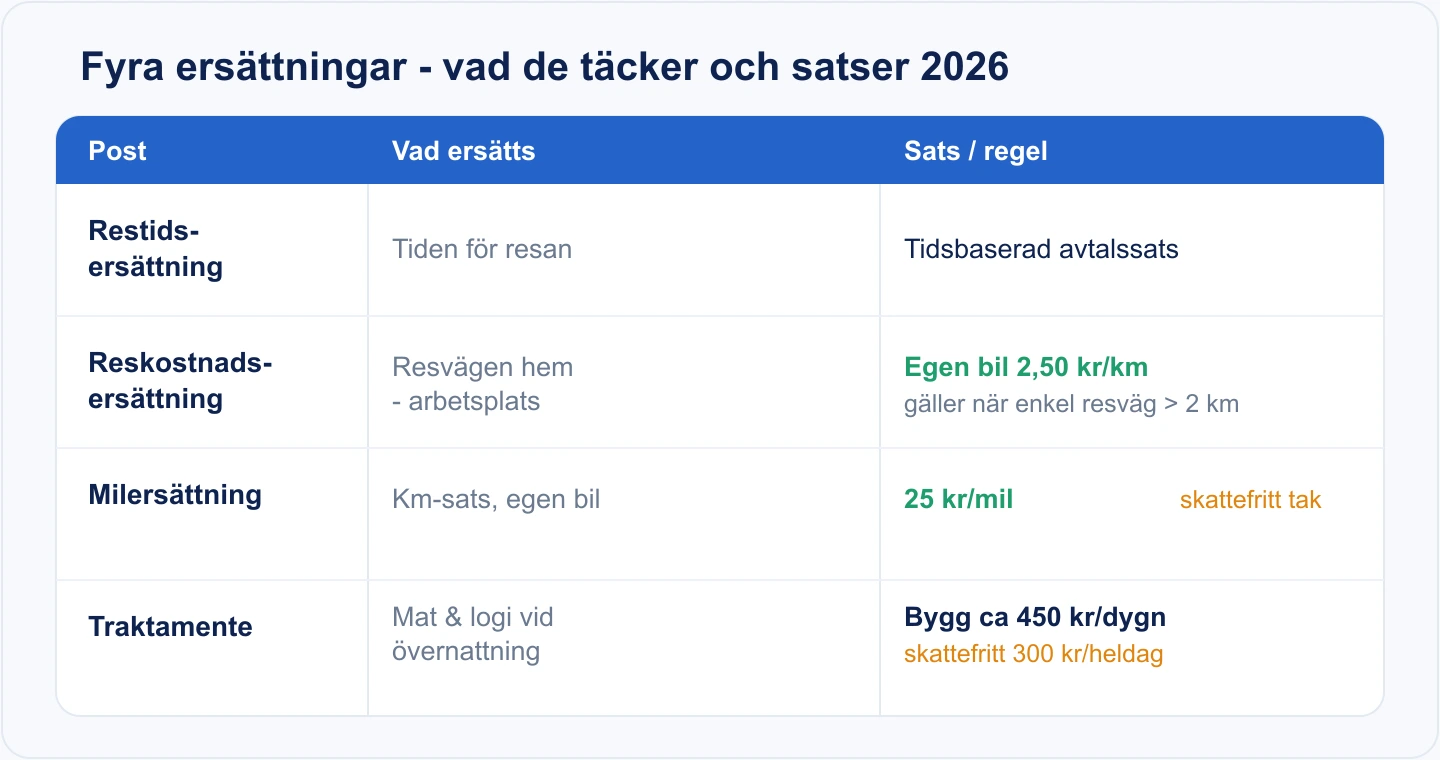
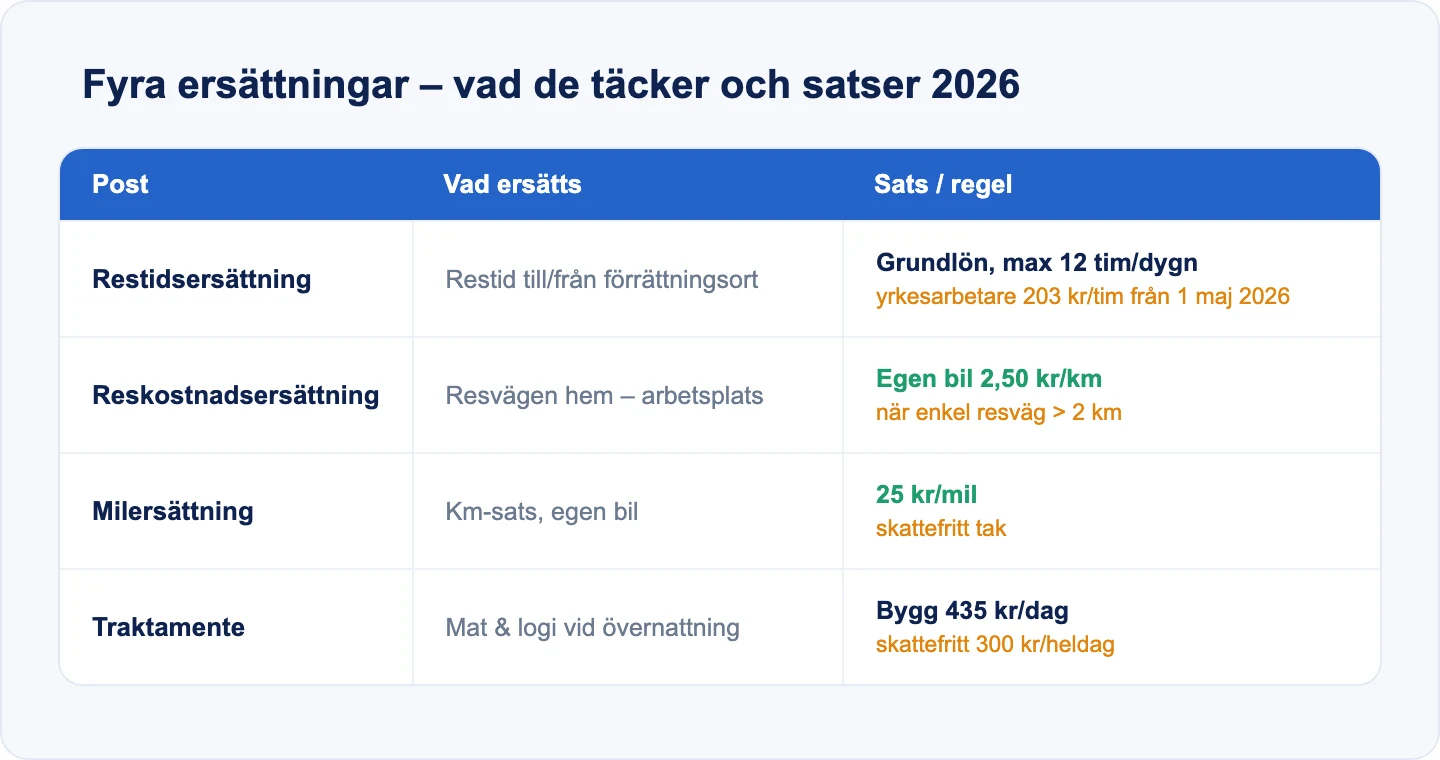
content: direct answers under the H1 for 12 articles + fact fixes
Quick answers (verified, with primary source): OB/övertid, AB-U, restid,
trappa, ackord, semesterlön, AB 04 vs ABT 06, reglar, förseningsvite,
hindersanmälan, moms lätt lastbil, Boverket.
Fixes: OB hours (OB1 05–06, OB2 18–22), traktamente 435 kr, restid rate,
semesterersättning monthly paid, ackord 203 kr/tim, trappa BBR claim,
Boverket title/state; OB + restid diagrams redrawn.

Claude-Session: https://claude.ai/code/session_01DyJMUJieBMYXjv47qoJ3xq

diff --git a/src/content/articles/regelverk.ts b/src/content/articles/regelverk.ts
@@ -500,7 +500,7 @@ const A_BOVERKETS_NYA_BYGGREGLER_2026_KONTROLLPLAN_HTML = `
 <li><strong>Inkom 1 juli 2025–30 juni 2026:</strong> byggherren väljer gammalt eller nytt – men inte en blandning.</li>
 <li><strong>Inkom efter 30 juni 2026:</strong> enbart Boverkets nya bygg- och konstruktionsregler gäller.</li>
 </ul>
-<p>Pågående projekt som startats under övergångsperioden enligt äldre regler kan omfattas av övergångsbestämmelser. Den exakta lydelsen bör du dubbelkolla mot Boverkets övergångsbestämmelser för just ditt ärende. En separat tidpunkt som rapporterats är att energikraven flyttas ut ur BBR till en egen energiregel, uppgivet omkring 1 oktober 2026 – det datumet är ännu obekräftat och bör verifieras mot Boverket.</p>
+<p>Pågående projekt som startats under övergångsperioden enligt äldre regler kan omfattas av övergångsbestämmelser. Den exakta lydelsen bör du dubbelkolla mot Boverkets övergångsbestämmelser för just ditt ärende. Energikraven har flyttats ut ur BBR till en egen författning (BFS 2026:9), och den 1 oktober 2026 upphävdes BBR helt. Under en begränsad tid får äldre energiregler i BBR 31 fortfarande tillämpas under vissa förutsättningar.</p>
 
 <h2>Myten om en ny kontrollplan – så ligger det till</h2>
 <p>En vanlig missuppfattning är att den nya regelreformen tvingar fram en helt ny sorts kontrollplan. Det stämmer inte. Kontrollplan och egenkontroll regleras av plan- och bygglagen (PBL, 10 kap.), inte av BBR eller byggreglerna. Själva reformen ändrar alltså inte de formella PBL-kraven på kontrollplanen.</p>
@@ -511,13 +511,13 @@ const A_BOVERKETS_NYA_BYGGREGLER_2026_KONTROLLPLAN_HTML = `
 <p>Konkret betyder det att varje kontrollpunkt bör kopplas till tre saker: vilket funktionskrav den svarar mot, vilken metod eller lösning du valt, och vilket underlag som styrker att kravet är uppfyllt (mätning, provning, produktdokumentation eller motsvarande). Kopplingen mellan egenkontroll, kontrollplan och startbesked blir viktigare – kontrollansvarig ska kunna följa hur du kommit fram till att ett krav är uppfyllt, inte bara att någon skrivit sina initialer i en ruta.</p>
 <p>Rollfördelningen är densamma men skärps i praktiken: byggherren äger ansvaret, KA granskar och följer kontrollplanen, och du som entreprenör levererar verifieringen. Ju svagare din dokumentation är, desto mer sårbar blir hela kedjan vid slutbesked.</p>
 
-<h2>Checklista: förbered dig innan 30 juni 2026</h2>
+<h2>Checklista: så ställer du om rutinerna</h2>
 <ul>
-<li><strong>Bestäm regelval per projekt.</strong> Avgör tidigt om projektet ska följa gamla eller nya reglerna, och notera datumet då ansökan/anmälan inkom.</li>
+<li><strong>Notera regelverket per projekt.</strong> Projekt där ansökan/anmälan inkom under övergångsperioden kan följa gamla regler – skriv in vilket regelverk som gäller och datumet då ansökan/anmälan inkom.</li>
 <li><strong>Uppdatera egenkontrollmallarna mot funktionskraven.</strong> Byt ut avbockningar mot punkter som beskriver vald lösning och verifiering.</li>
 <li><strong>Dokumentera verifieringsmetoden.</strong> Bestäm i förväg hur varje funktionskrav ska styrkas – mätning, provning eller produktunderlag.</li>
 <li><strong>Stäm av med kontrollansvarig.</strong> Säkerställ att kontrollplan och egenkontroll hänger ihop mot startbesked.</li>
-<li><strong>Bevaka energiregeln.</strong> Håll koll på den separata energiregelns ikraftträdande och kontrollera BFS-numren mot Boverkets författningssamling.</li>
+<li><strong>Kolla energireglerna.</strong> Energikraven står nu i BFS 2026:9 – kontrollera vilken version som gäller för ditt ärende.</li>
 <li><strong>Spara underlagen under hela ansvarstiden.</strong> Verifieringsdokumentationen är ditt skydd om ett projekt ifrågasätts i efterhand – för arbete på byggnader kan fel enligt konsumenttjänstlagen reklameras i upp till tio år, och entreprenadavtalens ansvarstid enligt AB 04/ABT 06 är normalt tio år.</li>
 </ul>
 
@@ -525,8 +525,8 @@ const A_BOVERKETS_NYA_BYGGREGLER_2026_KONTROLLPLAN_HTML = `
 <p>ByggExp hjälper dig att strukturera egenkontrollen så att den håller för det funktionsbaserade regelverket. I stället för lösa pappersblanketter samlar du kontrollpunkter, valda lösningar och verifieringsunderlag på ett ställe – med foton och noteringar kopplade till rätt moment. Det gör det enklare att visa <em>hur</em> ett krav uppfyllts och att ta fram dokumentationen när kontrollansvarig eller byggnadsnämnden frågar. ByggExp ersätter inte kontrollansvarig eller kontrollplanen enligt PBL, och tar inte över byggherrens ansvar – men det gör det betydligt lättare att hålla ordning på underlaget och att spara det under den tid det kan behövas, till exempel under den tioåriga reklamations- och ansvarstiden.</p>
 
 <h2>Vanliga frågor</h2>
-<h3>Måste jag använda de nya reglerna redan nu?</h3>
-<p>Nej. Under övergångsperioden 1 juli 2025–30 juni 2026 får byggherren välja gamla eller nya reglerna, så länge du inte blandar dem i samma projekt. För ärenden där ansökan eller anmälan inkommer efter 30 juni 2026 gäller enbart de nya reglerna.</p>
+<h3>Måste jag använda de nya reglerna nu?</h3>
+<p>Ja, för nya ärenden. Övergångsperioden 1 juli 2025–30 juni 2026, då byggherren fick välja gamla eller nya regler (utan att blanda), är slut. Valde du äldre regler och fick lov före 1 juli 2026 gäller de äldre reglerna även vid startbeskedet.</p>
 <h3>Vad händer med pågående bygglov?</h3>
 <p>Vilket regelverk som gäller styrs i praktiken av datumet då ansökan eller anmälan inkom till byggnadsnämnden. Projekt som startats under övergångsperioden enligt äldre regler kan omfattas av övergångsbestämmelser – kontrollera lydelsen för ditt specifika ärende mot Boverket.</p>
 <h3>Ändras kontrollplanen av de nya byggreglerna?</h3>
@@ -534,7 +534,7 @@ const A_BOVERKETS_NYA_BYGGREGLER_2026_KONTROLLPLAN_HTML = `
 <h3>Hur länge bör jag spara egenkontroll och verifieringsunderlag?</h3>
 <p>Det finns ingen särskild lagstadgad arkiveringstid för egenkontroll i PBL, men underlaget kan behövas långt efter slutbesked. Fel i arbete på byggnader kan enligt konsumenttjänstlagen reklameras i upp till tio år, och ansvarstiden i AB 04/ABT 06 är normalt tio år efter godkänd slutbesiktning – spara därför verifieringsdokumentationen så länge den kan bli aktuell.</p>
 <h3>Vad gäller efter 30 juni 2026?</h3>
-<p>Då är valfriheten borta. Ärenden som påbörjas eller ansöks efter det datumet ska följa Boverkets nya bygg- och konstruktionsregler fullt ut. Se därför över mallar och rutiner i god tid före sommaren 2026.</p>
+<p>Då är valfriheten borta. Från 1 juli 2026 gäller Boverkets nya byggregler fullt ut för alla nya ärenden. Har du inte redan gjort det: uppdatera mallar och rutiner nu.</p>
 
 <h2>Kom igång</h2>
 <p>Börja med att se över dina egenkontrollrutiner mot funktionskraven med vår gratis <a href="/sv/verktyg/egenkontroll-mall">egenkontrollmall</a>. Vill du se hur ByggExp samlar egenkontroll och verifieringsunderlag i ett flöde? Boka en demo via <a href="/sv/contact">/sv/contact</a>.</p>
@@ -544,10 +544,10 @@ const A_BOVERKETS_NYA_BYGGREGLER_2026_KONTROLLPLAN_HTML = `
 
 const A_BOVERKETS_NYA_BYGGREGLER_2026_KONTROLLPLAN: BlogPost = {
   _id: "code-"+"boverkets-nya-byggregler-2026-kontrollplan",
-  title: "Boverkets nya byggregler 2026: så påverkas din kontrollplan och egenkontroll", slug: "boverkets-nya-byggregler-2026-kontrollplan", locale: "sv",
-  excerpt: "Boverkets funktionsbaserade byggregler flyttar ansvaret till dig som entreprenör. Så påverkas egenkontroll och kontrollplan – och så förbereder du dig före 30 juni 2026.", tag: "Regelverk",
+  title: "Boverkets nya byggregler fullt ut 2026 – kontrollplan och egenkontroll", slug: "boverkets-nya-byggregler-2026-kontrollplan", locale: "sv",
+  excerpt: "Boverkets funktionsbaserade byggregler flyttar ansvaret till dig som entreprenör. Så påverkas egenkontroll och kontrollplan – och vad som gäller nu när övergångsperioden är slut.", tag: "Regelverk",
   coverImageUrl: "/landing/verktyg/egenkontroll-preview.webp", contentHtml: A_BOVERKETS_NYA_BYGGREGLER_2026_KONTROLLPLAN_HTML,
-  seoTitle: "Nya byggregler 2026: kontrollplan | ByggExp", seoDescription: "Boverkets nya bygg- och konstruktionsregler ändrar hur du dokumenterar egenkontroll. Så förbereder du dig och kontrollplanen före 30 juni 2026.",
+  seoTitle: "Nya byggregler 2026: kontrollplan | ByggExp", seoDescription: "Boverkets nya bygg- och konstruktionsregler ändrar hur du dokumenterar egenkontroll. Gäller fullt ut sedan 1 juli 2026 – så påverkas kontrollplanen.",
   seoImageUrl: `${SITE_URL}/landing/verktyg/egenkontroll-preview.webp`, canonicalUrl: "", noIndex: false, isPublished: true,
   publishedAt: "2026-08-19T05:39:00.000Z", createdAt: "2026-08-19T05:39:00.000Z", updatedAt: "2026-08-19T05:39:00.000Z",
 };

diff --git a/src/content/articles/ekonomi.ts b/src/content/articles/ekonomi.ts
@@ -3990,7 +3990,7 @@ const A_ACKORDSLON_BYGG_HTML = `
 <p>Reglerna finns i Byggavtalet, sektorns kollektivavtal mellan Byggnads och Byggföretagen. Den aktuella avtalsperioden löper 1 maj 2025–30 april 2027 och omfattar runt 100 000 yrkesarbetare. Som arbetsgivare är det Byggavtalets mätnings- och ackordsregler du har att förhålla dig till – ackord är inte en fri intern lönemodell utan ett reglerat system.</p>
 
 <h2>Lönegolvet du måste hålla</h2>
-<p>Ackord fritar dig inte från avtalade lägstanivåer. Grundlönen för yrkesarbetare angavs vid 2025 års revision till 196 kr/tim, alternativt 34 104 kr/mån. Den utgående (individuella) lönen räknades då upp med 7,54 kr/tim, motsvarande 1 312 kr/mån.</p>
+<p>Ackord fritar dig inte från avtalade lägstanivåer. Grundlönen för yrkesarbetare var 196 kr/tim (34 104 kr/mån) från 1 maj 2025 och är <strong>203 kr/tim (35 322 kr/mån) från 1 maj 2026</strong>. Den utgående (individuella) lönen räknades då upp med 7,54 kr/tim, motsvarande 1 312 kr/mån.</p>
 <p>Löneökningen är totalt 6,4 % över två år: 3,4 % från 1 maj 2025 och 3,0 % från 1 maj 2026. Vid andra årets revision höjs utgående lön med 6,85 kr/tim, ungefär 1 192 kr/mån. Poängen för dig som räknar ackord: överenskommelsen måste utformas så att lönen aldrig underskrider avtalad lägstanivå, oavsett hur mängderna faller ut.</p>
 
 <h2>Ackordssedeln och ackordsöverenskommelsen</h2>
@@ -6807,23 +6807,23 @@ const A_RESTIDSERSATTNING_BYGGAVTALET_HTML = `
 <li>Ersättning utgår när <strong>enkel resväg överstiger 2 km</strong>.</li>
 <li><strong>Egen bil: 2,50 kr/km (25 kr/mil).</strong></li>
 <li><strong>Samåkning:</strong> föraren får 2,50 kr/km plus 0,85 kr/km per passagerare; passageraren får 0,85 kr/km.</li>
-<li><strong>Kollektivtrafik</strong> ersätts mot uppvisat kvitto.</li>
-<li>Ersättningen betalas <strong>per arbetsdag</strong> och är <strong>capad vid avtalets traktamentesnivå</strong> - den dagliga reskostnaden kan alltså inte överstiga dagsbeloppet för traktamente.</li>
+<li><strong>Annat färdmedel</strong> (t.ex. kollektivtrafik): styrkta kostnader, högst 2,50 kr/km.</li>
+<li>Ersättningen betalas <strong>per arbetsdag</strong> och räknas på <strong>högst 120 km enkel resväg</strong>.</li>
 </ul>
-<p>Notera att detta är avtalssatser som revideras 1 maj varje avtalsår. Kontrollera alltid gällande belopp mot Byggavtalet innan lönekörning - satserna ovan speglar 2025-utgåvan.</p>
+<p>Beloppen följer Skatteverket: ändras det skattefria beloppet för tjänsteresor eller traktamente, ändras avtalets belopp på samma sätt (Byggavtalet 2025–2027 § 6 p. 1).</p>
 
 <h2>Restidsersättning - betalning för själva restiden</h2>
-<p>Restidsersättning träder in när resan går utanför den fria zonen eller till en förrättning, och den ersätter den <em>tid</em> den anställde reser - inte kilometrarna. Det innebär två saker i praktiken:</p>
+<p>Restidsersättning betalas för nödvändig restid till och från en förrättningsort (minst 70 km enkel resväg från bostaden), och den ersätter den <em>tid</em> den anställde reser - inte kilometrarna. Det innebär två saker i praktiken:</p>
 <ul>
 <li>Restidsersättning och reskostnadsersättning <strong>kan kombineras</strong> för samma resa: den ena betalar timmarna, den andra bilen.</li>
-<li>Beloppet är en tidsbaserad avtalssats som är <strong>avtalsberoende och revideras</strong> - kontrollera aktuell restidssats i gällande avtalstext innan du lägger in den i lönesystemet.</li>
+<li>Restiden ersätts med <strong>grundlön per timme</strong>, högst 12 timmar per dygn minus samma dags arbetade timmar (§ 6 p. 2.7.2). För yrkesarbetare är grundlönen <strong>203 kr/tim från 1 maj 2026</strong> (196 kr/tim maj 2025–april 2026).</li>
 </ul>
 <p>En vanlig felkälla är att blanda restidsersättning med milsatser från andra avtal. Det förekommer siffror i omlopp (exempelvis restidsersättning uttryckt i kr/mil) som i själva verket hör hemma i plåt-, ventilations- eller VVS-avtalen - inte i Byggavtalet. Använd aldrig en sats du inte kunnat verifiera mot Byggavtalets egen text.</p>
 
 <h2>Traktamente och förrättningstillägg vid övernattning</h2>
 <p>Vid tjänsteresa med övernattning tillkommer traktamente. Här möts två regelverk som inte är samma sak:</p>
 <ul>
-<li><strong>Byggavtalets traktamente</strong> ligger 2026 på cirka 450 kr/dygn - alltså <em>över</em> Skatteverkets skattefria gräns. Mellanskillnaden är skattepliktig lön. Beloppet reduceras med 55% om arbetsgivaren står för maten och 35% om arbetsgivaren står för boendet. Exakt kronbelopp är avtalsberoende och revideras.</li>
+<li><strong>Byggavtalets traktamente</strong> är <strong>435 kr per dag</strong> vid övernattning (§ 6 p. 2.2) - alltså <em>över</em> Skatteverkets skattefria gräns. Mellanskillnaden är skattepliktig lön. Beloppet reduceras med 55% om arbetsgivaren står för maten och 35% om arbetsgivaren står för boendet.</li>
 <li><strong>Skatteverkets skattefria traktamente inrikes 2026:</strong> helt maximibelopp 300 kr/heldag (halvdag 150 kr, natt 150 kr). Efter tre månader på samma ort sänks skattefritt belopp till 210 kr, efter två år till 150 kr. Från 2026 gäller nya, striktare allmänna råd.</li>
 <li><strong>50-km- och övernattningskravet:</strong> skattefritt traktamente förutsätter tjänsteresa med övernattning mer än 50 km från både bostad och den vanliga verksamhetsorten.</li>
 </ul>
@@ -6841,8 +6841,8 @@ const A_RESTIDSERSATTNING_BYGGAVTALET_HTML = `
 <p>En montör kör egen bil 6 mil tur och retur till ett projekt utanför fri zon och övernattar en vecka. Så här bör posterna redovisas <em>separat</em> på lönebeskedet (använd aktuella avtalssatser - beloppen nedan är ca-värden för att visa strukturen):</p>
 <ol>
 <li><strong>Reskostnadsersättning:</strong> 6 mil &times; 25 kr/mil = ca 150 kr för resdagen. Skattefri upp till Skatteverkets milgräns.</li>
-<li><strong>Restidsersättning:</strong> antal restimmar &times; gällande avtalssats. Ersätter tiden, redovisas som egen rad. Skattepliktig som lön.</li>
-<li><strong>Traktamente:</strong> avtalets dygnsbelopp (ca 435 kr) - varav 300 kr skattefritt och resterande del skattepliktig. Reduceras om arbetsgivaren står för mat eller boende.</li>
+<li><strong>Restidsersättning:</strong> antal restimmar &times; grundlön (203 kr/tim för yrkesarbetare). Ersätter tiden, redovisas som egen rad. Skattepliktig som lön.</li>
+<li><strong>Traktamente:</strong> avtalets dagsbelopp 435 kr - varav 300 kr skattefritt och resterande del skattepliktig. Reduceras om arbetsgivaren står för mat eller boende.</li>
 </ol>
 <p>Poängen är inte kronorna utan uppdelningen: tre olika rader, med rätt skattefri/skattepliktig hantering på varje. Hänvisa alltid till aktuell avtalstext för de exakta beloppen.</p>
 
@@ -6853,7 +6853,7 @@ const A_RESTIDSERSATTNING_BYGGAVTALET_HTML = `
 <h3>Är restidsersättning och reskostnadsersättning samma sak?</h3>
 <p>Nej. Restidsersättning betalar för den tid resan tar, reskostnadsersättning betalar för resvägen/kostnaden (bil, samåkning eller kollektivtrafik). De kan utgå samtidigt för samma resa - den ena för timmarna, den andra för kilometrarna.</p>
 <h3>Vilken milersättning gäller för byggnadsarbetare 2026?</h3>
-<p>Reskostnaden vid egen bil enligt Byggavtalet är 2,50 kr/km (25 kr/mil) i 2025-utgåvan. Skatteverkets skattefria milersättning är också 25 kr/mil 2026. Betalar arbetsgivaren mer än den skattefria nivån blir överskjutande del skattepliktig lön. Kontrollera aktuell avtalssats, som revideras 1 maj.</p>
+<p>Reskostnaden vid egen bil enligt Byggavtalet 2025–2027 är 2,50 kr/km (25 kr/mil). Skatteverkets skattefria milersättning är också 25 kr/mil 2026. Betalar arbetsgivaren mer än den skattefria nivån blir överskjutande del skattepliktig lön.</p>
 <h3>Måste traktamentet över 300 kr beskattas?</h3>
 <p>Ja. Skatteverkets skattefria maximibelopp inrikes 2026 är 300 kr/heldag. Byggavtalets traktamente ligger över det, och mellanskillnaden är skattepliktig lön med arbetsgivaravgifter. Efter tre månader på samma ort sänks den skattefria gränsen till 210 kr, efter två år till 150 kr.</p>
 <h3>Gäller Skatteverkets reseavdrag för byggnadsarbetare?</h3>

diff --git a/src/content/article-quick-answers.ts b/src/content/article-quick-answers.ts
@@ -11,7 +11,141 @@ export type QuickAnswer = {
   source?: { label: string; href: string };
 };
 
-export const ARTICLE_QUICK_ANSWERS: Record<string, QuickAnswer> = {};
+const BYGGAVTALET_PDF =
+  'https://www.byggnads.se/49ec78/siteassets/kollektivavtal/byggavtalet-2025-digital-utgava-1.pdf';
+const AB04_BYGGTJANST = 'https://byggtjanst.se/bokhandel/upphandling/ab-04';
+
+// Facts verified 2026-10-06 against the linked sources (Byggavtalet 2025–2027
+// digital utgåva 1, Skatteverket, Boverket, Byggföretagen, Svensk Byggtjänst, Gyproc).
+export const ARTICLE_QUICK_ANSWERS: Record<string, QuickAnswer> = {
+  'ob-overtid-byggavtalet-rakna': {
+    html: `<table>
+<thead><tr><th>Mån–fre</th><th>OB</th><th>Övertid</th></tr></thead>
+<tbody>
+<tr><td>05–06</td><td>OB&nbsp;1&nbsp;·&nbsp;20&nbsp;%</td><td>B&nbsp;·&nbsp;50&nbsp;%</td></tr>
+<tr><td>06–17</td><td>–</td><td>A&nbsp;·&nbsp;30&nbsp;%</td></tr>
+<tr><td>17–18</td><td>–</td><td>B&nbsp;·&nbsp;50&nbsp;%</td></tr>
+<tr><td>18–19</td><td>OB&nbsp;2&nbsp;·&nbsp;40&nbsp;%</td><td>B&nbsp;·&nbsp;50&nbsp;%</td></tr>
+<tr><td>19–22</td><td>OB&nbsp;2&nbsp;·&nbsp;40&nbsp;%</td><td>C&nbsp;·&nbsp;70&nbsp;%</td></tr>
+<tr><td>22–05</td><td>OB&nbsp;3&nbsp;·&nbsp;70&nbsp;%</td><td>D&nbsp;·&nbsp;100&nbsp;%</td></tr>
+<tr><td>Helg</td><td>OB&nbsp;3&nbsp;·&nbsp;70&nbsp;%</td><td>D&nbsp;·&nbsp;100&nbsp;%</td></tr>
+</tbody>
+</table>
+<p>Procent av utgående lön. Under övertid betalas ingen OB.</p>`,
+    source: { label: 'Byggavtalet 2025–2027, § 2 p. 5–6', href: BYGGAVTALET_PDF },
+  },
+
+  'ab-u-underentreprenor-avtal': {
+    html: `<p><strong>AB-U 07</strong> – för utförandeunderentreprenad – beställaren står för projekteringen. AB 04 gäller, med AB-U 07:s ändringar och tillägg.</p>
+<p><strong>ABT-U 07</strong> – samma för totalunderentreprenad: underentreprenören projekterar och utför. ABT 06 gäller.</p>
+<p>Texterna och kontraktsformulären laddas ned gratis från Byggföretagen.</p>`,
+    source: {
+      label: 'Byggföretagen – AB-U 07 (pdf)',
+      href: 'https://byggforetagen.se/app/uploads/2020/01/AB-U__07.pdf',
+    },
+  },
+
+  'restidsersattning-byggavtalet': {
+    html: `<table>
+<tbody>
+<tr><td>Egen bil (över 2 km enkel väg)</td><td>2,50&nbsp;kr/km, max 120&nbsp;km enkel väg</td></tr>
+<tr><td>Samåkning, föraren</td><td>+0,85&nbsp;kr/km per passagerare</td></tr>
+<tr><td>Restid till förrättning</td><td>Grundlön, max 12&nbsp;tim/dygn inkl. arbetstid</td></tr>
+<tr><td>Traktamente</td><td>435&nbsp;kr/dag</td></tr>
+</tbody>
+</table>
+<p>Grundlön för yrkesarbetare: 203 kr/tim från 1 maj 2026. Förrättning = minst 70 km från bostaden. Skattefritt traktamente 2026: 300 kr/heldag – resten beskattas som lön.</p>`,
+    source: { label: 'Byggavtalet 2025–2027, § 6', href: BYGGAVTALET_PDF },
+  },
+
+  'bygga-trappa-steghojd-stegdjup-berakning': {
+    html: `<p><strong>2 × steghöjd + stegdjup = 600–650 mm</strong> (helst 620–630).</p>
+<p>Exempel: steghöjd 175 mm → stegdjup 630 − 2 × 175 = 280 mm. Stegdjup minst 250 mm.</p>`,
+    source: {
+      label: 'Svensk Byggtjänst – Byggfakta om trappor',
+      href: 'https://byggkatalogen.byggtjanst.se/byggfakta/trappor/481',
+    },
+  },
+
+  'ackordslon-bygg': {
+    html: `<p><strong>Ackord</strong> är prestationslön: laget får betalt för utförd mängd enligt ackordslista eller arbetsgivarens ackordsunderlag – inte per timme.</p>
+<p>Grundlönen är garanterad: 203 kr/tim för yrkesarbetare från 1 maj 2026 (196 kr före).</p>`,
+    source: { label: 'Byggavtalet 2025–2027, § 3', href: BYGGAVTALET_PDF },
+  },
+
+  'semesterlon-semesterersattning-byggavtalet': {
+    html: `<p><strong>Timavlönade: 13,0 %</strong> av semesterlöneunderlaget i semesterlön och semesterersättning (semesterlagen: 12 %).</p>
+<p>Månadsavlönade: månadslön + semestertillägg 0,8 % per betald semesterdag, plus 13,0 % på övertid och andra lönetillägg. Semesterersättning när anställningen slutar: 4,6 % av månadslönen per ej uttagen dag + semestertillägg.</p>`,
+    source: { label: 'Byggavtalet 2025–2027, bilaga I', href: BYGGAVTALET_PDF },
+  },
+
+  'ab-04-och-abt-06': {
+    html: `<table>
+<thead><tr><th></th><th>AB 04</th><th>ABT 06</th></tr></thead>
+<tbody>
+<tr><td>Entreprenad</td><td>Utförande</td><td>Total</td></tr>
+<tr><td>Projekterar</td><td>Beställaren</td><td>Entreprenören</td></tr>
+<tr><td>Garantitid</td><td>5 år (material/varor 2 år)</td><td>5 år</td></tr>
+<tr><td>Ansvarstid</td><td colspan="2">10 år från godkännandet</td></tr>
+</tbody>
+</table>
+<p>Avtalstexterna säljs av Svensk Byggtjänst, kontraktsformulären är gratis – eller använd vår <a href="/sv/verktyg/entreprenadkontrakt-mall">kontraktsmall</a>.</p>`,
+    source: { label: 'Svensk Byggtjänst – AB 04', href: AB04_BYGGTJANST },
+  },
+
+  'reglar-dimensioner-c-avstand-vagg': {
+    html: `<table>
+<thead><tr><th>Regel</th><th>Används till</th></tr></thead>
+<tbody>
+<tr><td>45 × 45 mm</td><td>Lätta väggar, installationsskikt</td></tr>
+<tr><td>45 × 70 mm</td><td>Vanlig innervägg</td></tr>
+<tr><td>45 × 95 mm</td><td>Innervägg med mer isolering, upp till 4 m vägghöjd</td></tr>
+</tbody>
+</table>
+<p>c 450 mm med 900 mm skivor, c 600 mm med 1 200 mm skivor. Bärande väggar och ytterväggar dimensioneras separat.</p>`,
+    source: {
+      label: 'Gyproc Handbok – Innerväggar GT (pdf)',
+      href: 'https://www.gyproc.se/documents/handbok/hb10-gyproc-gt.pdf',
+    },
+  },
+
+  'forseningsvite-entreprenad': {
+    html: `<p><strong>Vite enligt kontraktet för varje påbörjad vecka</strong> som kontraktstiden överskrids (AB 04 kap 5 § 3).</p>
+<p>Exempel: avtalat vite 1 % av 4 Mkr = 40 000 kr/vecka. 8 dagars försening = 2 påbörjade veckor = 80 000 kr.</p>
+<p>Avtalat vite = inget skadestånd utöver vitet. Inget vite avtalat = beställaren får kräva ersättning för styrkt skada.</p>`,
+    source: { label: 'AB 04 kap 5 § 3 – Svensk Byggtjänst', href: AB04_BYGGTJANST },
+  },
+
+  'momsavdrag-latt-lastbil-personbil-bygg': {
+    html: `<table>
+<thead><tr><th>Avdrag</th><th>Köp</th><th>Hyra</th><th>Drift</th></tr></thead>
+<tbody>
+<tr><td>Lätt lastbil, separat hytt</td><td>100&nbsp;%</td><td>100&nbsp;%</td><td>100&nbsp;%</td></tr>
+<tr><td>Personbil / skåpbil utan separat hytt ≤ 3&nbsp;500&nbsp;kg</td><td>0&nbsp;%</td><td>50&nbsp;%</td><td>100&nbsp;%</td></tr>
+</tbody>
+</table>
+<p>Gäller i momspliktig verksamhet. 50 % på hyra (leasing) förutsätter mer än 100 mil/år där.</p>`,
+    source: {
+      label: 'Skatteverket – Bilar och moms',
+      href: 'https://www.skatteverket.se/foretag/moms/sarskildamomsregler/bilarochmoms.4.58d555751259e4d6616800010628.html',
+    },
+  },
+
+  'hindersanmalan-tidsforlangning-ab04': {
+    html: `<p><strong>AB 04 kap 4 § 4:</strong> underrätta beställaren utan dröjsmål när du inser – eller borde inse – att ett hinder försenar arbetet.</p>
+<p>Gör du inte det får du inte åberopa hindret (om inte beställaren själv insett det), och förseningsvitet löper. Grunderna för tidsförlängning står i kap 4 § 3. Anmäl skriftligt – då kan du bevisa det.</p>`,
+    source: { label: 'AB 04 kap 4 – Svensk Byggtjänst', href: AB04_BYGGTJANST },
+  },
+
+  'boverkets-nya-byggregler-2026-kontrollplan': {
+    html: `<p>De nya byggreglerna gäller sedan <strong>1 juli 2025</strong>. Övergången, då man fick välja gamla BBR/EKS, slutade <strong>30 juni 2026</strong>. Nya ärenden följer nu bara de nya reglerna.</p>
+<p>Kraven på kontrollplan står kvar i PBL 10 kap. Reglerna är nu funktionskrav utan anvisade lösningar – egenkontrollen behöver visa hur kraven verifieras.</p>`,
+    source: {
+      label: 'Boverket – Nu gäller nya byggregler fullt ut',
+      href: 'https://www.boverket.se/sv/PBL-kunskapsbanken/nyheter-pa-pbl-kunskapsbanken/nya-byggregler-fullt-ut/',
+    },
+  },
+};
 
 export function getArticleQuickAnswer(slug: string): QuickAnswer | null {
   return ARTICLE_QUICK_ANSWERS[slug] ?? null;

diff --git a/src/content/articles/juridik.ts b/src/content/articles/juridik.ts
@@ -1314,7 +1314,7 @@ const A_OB_OVERTID_BYGGAVTALET_RAKNA_HTML = `
 <li><strong>OB 2 = 40 %</strong></li>
 <li><strong>OB 3 = 70 %</strong></li>
 </ul>
-<p>Vilken nivå som gäller styrs av klockslag och veckodag. Morgon kl 05–06 och eftermiddag kl 17–19 ligger på den lägsta nivån (<strong>OB 1 = 20 %</strong>), medan kväll kl 19–22 ligger på mellannivån (<strong>OB 2 = 40 %</strong>). Natt kl 22–05 samt hela lördag, söndag och helgdag ger den högsta satsen (<strong>OB 3 = 70 %</strong>). Vardagstid kl 06–18 är ordinarie tid utan OB. Stäm alltid av mot avtalstexten i § 2 p5 innan du bygger in gränserna i lönerutinen, eftersom det är just klockslagen som avgör vilken procent som ska användas.</p>
+<p>Vilken nivå som gäller styrs av klockslag och veckodag. Måndag–fredag ger morgon kl 05–06 den lägsta nivån (<strong>OB 1 = 20 %</strong>) och kväll kl 18–22 mellannivån (<strong>OB 2 = 40 %</strong>). Natt kl 22–05 samt hela lördag, söndag och helgdag ger den högsta satsen (<strong>OB 3 = 70 %</strong>). Vardagstid kl 06–18 är ordinarie tid utan OB. Stäm alltid av mot avtalstexten i § 2 p5 innan du bygger in gränserna i lönerutinen, eftersom det är just klockslagen som avgör vilken procent som ska användas.</p>
 
 <h2>Övertidens fyra nivåer (§ 2 p6.1)</h2>
 <p>Övertid har fyra nivåer, också beräknade i procent på utgående lön. Man skiljer på enkel och kvalificerad övertid:</p>
@@ -1967,13 +1967,13 @@ const A_SEMESTERLON_SEMESTERERSATTNING_BYGGAVTALET_HTML = `
 <p><strong>Månadsavlönad byggnadsarbetare.</strong> Anta en fast månadslön på 34 000 kr och rörliga lönedelar (ob och övertid) på 60 000 kr under intjänandeåret. Vid uttag av semester:</p>
 <ul>
 <li>Månadslönen betalas som vanligt under ledigheten.</li>
-<li>Semestertillägg enligt avtal läggs på den fasta lönen.</li>
+<li>Semestertillägg läggs på den fasta lönen: 0,8 procent av månadslönen per betald semesterdag.</li>
 <li>På de rörliga 60 000 kr läggs 13,0 %: 60 000 × 0,13 = <strong>7 800 kr</strong> i semesterlön på rörliga delar.</li>
 </ul>
-<p>Den exakta mekaniken för hur semestertillägget på den fasta lönen ska beräknas per betald dag framgår av Byggavtalets semesterkapitel – kontrollera den mot din avtalstext. Poängen är att de rörliga delarna aldrig får glömmas bort: kontrollera att lönesystemet verkligen samlar ackord, ob och övertid i det semesterlönegrundande underlaget – inte bara grundlönen.</p>
+<p>Reglerna för månadsavlönade står i Byggavtalets bilaga I (Särskilda semesterregler). Poängen är att de rörliga delarna aldrig får glömmas bort: kontrollera att lönesystemet verkligen samlar ackord, ob och övertid i det semesterlönegrundande underlaget – inte bara grundlönen.</p>
 
 <h2>Semesterersättning vid avslutad anställning</h2>
-<p>Semesterersättning är den intjänade men inte uttagna semesterlönen som betalas ut när anställningen upphör. För byggnadsarbetare beräknas den med samma procentsats som semesterlönen, alltså 13,0 procent (respektive 13,1 eller 13,2 procent beroende på avtalsområde) av den intjänade lönen.</p>
+<p>Semesterersättning är den intjänade men inte uttagna semesterlönen som betalas ut när anställningen upphör. För timavlönade byggnadsarbetare beräknas den med samma procentsats som semesterlönen, alltså 13,0 procent av semesterlöneunderlaget (respektive 13,1 eller 13,2 procent beroende på avtalsområde). För månadsavlönade är semesterersättningen 4,6 procent av den aktuella månadslönen per ej uttagen semesterdag, plus semestertillägg.</p>
 <p>Enligt semesterlagen ska semesterersättningen betalas ut senast en månad efter att anställningen har upphört. Det är särskilt viktigt att ha koll på i byggbranschen, där projektanställningar och säsongsvariation gör att anställningar ofta avslutas. En felaktig eller sen utbetalning kan snabbt bli en tvistefråga.</p>
 <p>Räkna alltså ut all intjänad, ej uttagen semesterlön på hela bruttolönen fram till sista anställningsdagen, multiplicera med rätt procentsats och betala ut inom en månad. Har den anställde sparade dagar från tidigare år ska även dessa lösas ut.</p>
 
@@ -2002,7 +2002,7 @@ const A_SEMESTERLON_SEMESTERERSATTNING_BYGGAVTALET_HTML = `
 <h3>Räknas ob och övertid med i semesterlönen?</h3>
 <p>Ja. Procenten läggs på hela den intjänade bruttolönen under intjänandeåret, inklusive ackord, ob, övertid och vissa tillägg – inte bara grundlönen. Missar du de rörliga delarna underbetalar du semesterlönen.</p>
 <h3>När ska semesterersättning betalas ut?</h3>
-<p>Semesterersättningen – intjänad men inte uttagen semesterlön – ska enligt semesterlagen betalas ut senast en månad efter att anställningen upphört. Den beräknas med samma procentsats som semesterlönen, alltså 13 procent för byggnadsarbetare på Byggavtalet.</p>
+<p>Semesterersättningen – intjänad men inte uttagen semesterlön – ska enligt semesterlagen betalas ut senast en månad efter att anställningen upphört. För timavlönade på Byggavtalet är den 13,0 procent av semesterlöneunderlaget; för månadsavlönade 4,6 procent av månadslönen per ej uttagen dag plus semestertillägg.</p>
 <h3>När måste jag använda procentregeln i stället för sammalöneregeln?</h3>
 <p>När den anställde under intjänandeåret haft frånvaro som inte är semesterlönegrundande eller ändrat sysselsättningsgrad. Då är procentregeln tvingande. I bygg är detta vanligt vid permittering, sjukfrånvaro och varierande tjänstgöringsgrad.</p>
 

diff --git a/src/content/articles/kalkyl.ts b/src/content/articles/kalkyl.ts
@@ -1803,8 +1803,8 @@ const A_BYGGA_TRAPPA_STEGHOJD_STEGDJUP_BERAKNING_HTML = `
 <h2>Boverkets krav och vanliga riktvärden</h2>
 <p>Boverkets föreskrifter om säkerhet vid användning av byggnader (BFS 2024:9), som ersatte BBR 1 juli 2025, kräver att trappor är utformade så att man kan förflytta sig säkert – men anger inga exakta mått för steghöjd och stegdjup. Som utgångsvärden används därför ofta vedertagna riktvärden, bland annat från BBR:s tidigare allmänna råd:</p>
 <ul>
-<li><strong>Steghöjd:</strong> bör inte överstiga cirka 180 mm (18 cm) inomhus. En bekväm nivå ligger ofta på 150–180 mm.</li>
-<li><strong>Stegdjup:</strong> minst cirka 250 mm (0,25 m) för trappor i eller i anslutning till byggnader. För trappor i gångvägar på tomten bör stegdjupet vara minst 300 mm (0,30 m).</li>
+<li><strong>Steghöjd:</strong> BBR angav ingen maxhöjd. Trä- och Möbelföretagens handledning för trätrappor anger 170–210 mm som lämplig steghöjd i småhus och lägenheter. Ju lägre steg, desto djupare plansteg enligt trappformeln.</li>
+<li><strong>Stegdjup:</strong> minst 250 mm (0,25 m) mätt i gånglinjen, för trappor i eller i anslutning till byggnader. För trappor i gångvägar på tomten bör stegdjupet vara minst 300 mm (0,30 m).</li>
 </ul>
 <p>Exakta krav skiljer sig åt beroende på om det är en trappa i en bostad, i en publik byggnad eller utomhus. Kontrollera alltid vad som gäller för just din typ av trappa innan du bygger – BFS 2024:9 och, i flerbostadshus och publika lokaler, tillgänglighetskraven i BFS 2024:12. Har ansökan om bygglov eller anmälan kommit in före 1 juli 2026 får BBR fortfarande tillämpas.</p>
 
